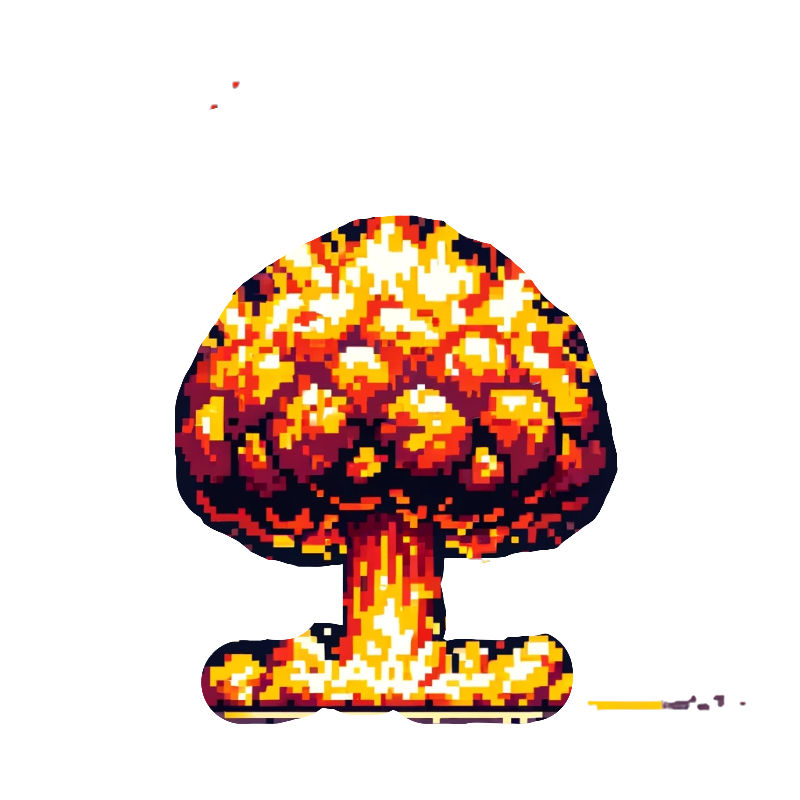
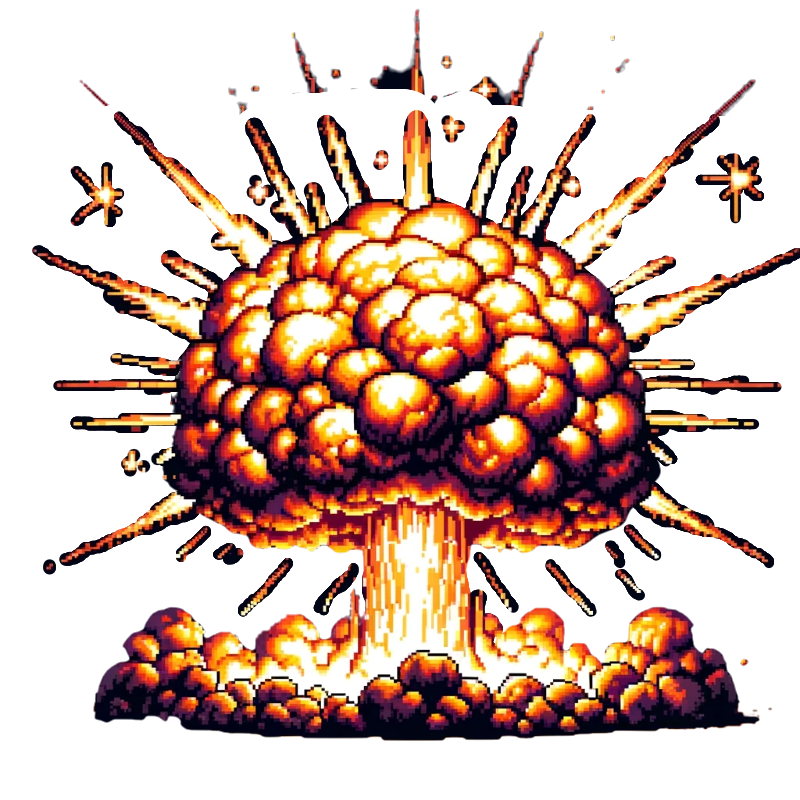
Animação corrigida.

diff --git a/codigo/game.py b/codigo/game.py
@@ -16,6 +16,8 @@ class Game:
         self.clock = pygame.time.Clock()
         self.pontuação = 0 
         self.start_time = pygame.time.get_ticks()
+        self.explosion_animation = ExplosionAnimation(self.window)
+        self.contagem = 0
   
         # musica
         pygame.mixer.init()
@@ -37,22 +39,18 @@ class Game:
                                 if event.type == pygame.QUIT or \
                                 (event.type == pygame.KEYDOWN and 
                                     (event.key == pygame.K_ESCAPE or event.key == pygame.K_SPACE)):
-                                    return  # Sair do jogo
+                                    self.game_over = False
+                                    self.running = False
+                                    menu.running = False
+                                    self.game_over = False
+                                    return
+                            if self.explosion_animation.update():  # Usando a instância criada no __init__
+                                self.explosion_animation.draw_explosion(nave)
+                                self.explosion_animation.draw_game_over_message()
 
-                            if explosion_animation.update():  # Se a animação ainda estiver rodando
-                                explosion_animation.draw_explosion(nave)
-                                explosion_animation.draw_game_over_message()
-                            
                                 pygame.display.flip()
-                        
-                        
-                        # for event in pygame.event.get():
-                        #     if event.type == pygame.QUIT:
-                        #         self.running = False
-                        #     if event.type == pygame.KEYDOWN:
-                        #         if event.key == pygame.K_ESCAPE or event.key == pygame.K_SPACE:
-                        #             self.running = False
-                        #             menu.running = False
+                    
+                       
                     else:
 
                         dt = self.clock.tick(60)/1000  # delta tempo em segundos.
@@ -69,16 +67,19 @@ class Game:
 
                         collision_detected = nave.update(obstacles)
                         if collision_detected:
+                            if self.contagem == 0:
+                                self.contagem += 1
+                                self.explosion_animation.start_time = pygame.time.get_ticks()
                             self.game_over = True
                             nave.update(obstacles)
                             nave.draw()
-                        
-                        if self.game_over:
-                            if explosion_animation.update():  # Se a animação ainda estiver rodando
-                                explosion_animation.draw_explosion()
-                                explosion_animation.draw_game_over_message()
-                            pygame.display.flip()
                             continue
+                        if self.game_over:
+                            if self.explosion_animation.update():  # Se a animação ainda estiver rodando
+                                self.explosion_animation.draw_explosion(nave)
+                                self.explosion_animation.draw_game_over_message()
+                            pygame.display.flip()
+                            
                             
                         self.pontuação = (3 * elapsed_time) + (1.4 ** (elapsed_time * 0.6)) 
                         # Atualizar objetos do jogo aqui
@@ -93,6 +94,6 @@ class Game:
                         self.window.blit(score_text, (200, 160))
                         pygame.display.flip()
                     
-                        self.game_over = False
+                        
 
             

diff --git a/codigo/nave.py b/codigo/nave.py
@@ -7,19 +7,11 @@ class Nave:
         self.images = {
             'up': pygame.image.load('imagens/nave.png'),
             'down': pygame.image.load('imagens/nave_caindo.png'),
-            'bateu_parede': pygame.image.load('imagens/explosao2.png'),
-            'bateu_chao_1': pygame.image.load('imagens/explosao1.png'),
-            'bateu_chao_2': pygame.image.load('imagens/explosao4.png'),
-            'bateu_chao_3': pygame.image.load('imagens/explosao5.png')
         }
         # Se width e height forem especificados, redimensiona a imagem
         if width and height:
             self.images['up'] = pygame.transform.scale(self.images['up'], (width, height))
             self.images['down'] = pygame.transform.scale(self.images['down'], (width, height))
-            self.images['bateu_parede'] = pygame.transform.scale(self.images['bateu_parede'], (width, height))
-            self.images['bateu_chao_1'] = pygame.transform.scale(self.images['bateu_chao_1'], (width, height))
-            self.images['bateu_chao_2'] = pygame.transform.scale(self.images['bateu_chao_2'], (width, height))
-            self.images['bateu_chao_3'] = pygame.transform.scale(self.images['bateu_chao_3'], (width, height))
 
         self.image = self.images['down']  # Imagem inicial
         self.mask = pygame.mask.from_surface(self.image)
@@ -32,6 +24,7 @@ class Nave:
         self.velocity = 0  # Velocidade vertical inicial
         self.gravity = 0.6  # Força da gravidade
         self.flap_strength = -9  # Força do impulso para cima
+        self.visible = True 
 
     def update(self, obstacles):  # Passar os obstáculos como argumento]
         tempo_inicio = pygame.time.get_ticks()
@@ -44,19 +37,7 @@ class Nave:
         else:
             self.image = self.images['down']
 
-        for obstacle in obstacles.obstacles:
-            offset_x = obstacle['x'] - self.x
-            offset_y = obstacle['y'] - self.y
-            if self.mask.overlap(obstacle['mask'], (offset_x, offset_y)):
-                hora_colisao = 0 
-                tempo_atual = pygame.time.get_ticks() - tempo_inicio
-                if tempo_atual - hora_colisao  < 300:
-                    self.image = self.images['bateu_parede']
-                elif tempo_atual - hora_colisao < 600:
-                    self.image = self.images['bateu_chao_2']
-                else:
-                
-                    self.image = self.images['bateu_chao_3']
+               
 
         keys = pygame.key.get_pressed()
         if keys[pygame.K_UP] and self.hitbox.top > 0:
@@ -73,11 +54,13 @@ class Nave:
             offset_x = obstacle['x'] - self.x
             offset_y = obstacle['y'] - self.y
             if self.mask.overlap(obstacle['mask'], (offset_x, offset_y)):
+                self.visible = False
                 return True  # Colisão detectada
         return False  # Nenhuma colisão detectada
 
         
 
-    def draw(self): 
-        self.window.blit(self.image, (self.x, self.y))
+    def draw(self):
+        if self.visible:
+            self.window.blit(self.image, (self.x, self.y))
         #pygame.draw.rect(self.window, (255, 0, 0), self.hitbox, 2)

diff --git a/codigo/explosoes.py b/codigo/explosoes.py
@@ -1,53 +1,34 @@
 import pygame
-from nave import Nave
-
 
 class ExplosionAnimation:
-    def _init_(self, window):
-        explosao_1 = pygame.image.load('imagens/explosao1.png')
-        self.explosao_1 = pygame.transform.scale(explosao_1, (100, 100))
-        explosao_2 = pygame.image.load('imagens/explosao2.png')
-        self.explosao_2 = pygame.transform.scale(explosao_2, (100, 100))
-        explosao_3 = pygame.image.load('imagens/explosao4.png')
-        self.explosao_3 = pygame.transform.scale(explosao_3, (100, 100))
-        explosao_4 = pygame.image.load('imagens/explosao5.png')
-        self.explosao_4 = pygame.transform.scale(explosao_4, (100, 100))
-        self.images = [
-            explosao_1,
-            explosao_2,
-            explosao_3,
-            explosao_4
-        ]
-        self.current_image_index = 0
-        self.x = 0
-        self.y = 0
+    def __init__(self, window):  # Corrigido o nome do método
+        self.load_images()
         self.window = window
-        self.duration = 3000 // len(self.images)
+        self.duration = 300 // len(self.images)
         self.start_time = pygame.time.get_ticks()
+
+    def load_images(self):
+        self.images = []
+        for i in range(1, 5):
+            image = pygame.image.load(f'imagens/explosao{i}.png')
+            scaled_image = pygame.transform.scale(image, (200, 200))
+            self.images.append(scaled_image)
 
     def update(self):
         elapsed_time = pygame.time.get_ticks() - self.start_time
+        self.current_image_index = elapsed_time // self.duration
 
         if elapsed_time > self.duration * len(self.images):
+            
             return False  # A animação terminou
 
-        self.current_image_index = elapsed_time // self.duration
         return True  # A animação ainda está em execução
 
     def draw_explosion(self, nave):
-        current_time = pygame.time.get_ticks()
-        if current_time - self.start_time < self.duration:
-            # Escolha a imagem baseada no tempo decorrido
-            if current_time - self.start_time < self.duration / 4:
-                image = self.explosao_1
-            elif current_time - self.start_time < self.duration / 2:
-                image = self.explosao_2
-            elif current_time - self.start_time < 3 * self.duration / 4:
-                image = self.explosao_3
-            else:
-                image = self.explosao_4
-            # Desenhe a imagem na posição da nave
-            self.window.blit(image, (nave.x, nave.y))
+        if self.current_image_index < len(self.images):
+            self.image = self.images[self.current_image_index]
+            self.window.blit(self.image, (nave.x - 30, nave.y - (100 + self.current_image_index * 6)  ))
+
     def draw_game_over_message(self):
         font = pygame.font.Font(None, 74)
         game_over_text = font.render('Você perdeu', True, (255, 0, 0))

diff --git a/codigo/main.py b/codigo/main.py
@@ -11,6 +11,7 @@ if __name__ == "__main__":
     nave = Nave(game.window, width=100, height=100)
     obstacles = Obstacle(game.window)
     menu = Menu(game.window)
+    explosion_animation = ExplosionAnimation(game.window)
     obstacles.initialize_obstacle('platform', 180, 850)
     obstacles.initialize_obstacle('platform', 980, 850)
     obstacles.initialize_obstacle('platform', 1780, 850)
@@ -23,4 +24,4 @@ if __name__ == "__main__":
     obstacles.initialize_obstacle('clif', random.randint(3680, 3780),random.randint(10, 90), width=100, height=500)
     obstacles.initialize_obstacle('nuddle', random.randint(4380, 4480), 110, width=100, height=500)
     obstacles.initialize_obstacle('clif', 4680, 510, width=100, height=500)
-    game.run( obstacles, nave, menu, ExplosionAnimation)
+    game.run(obstacles, nave, menu, explosion_animation)
